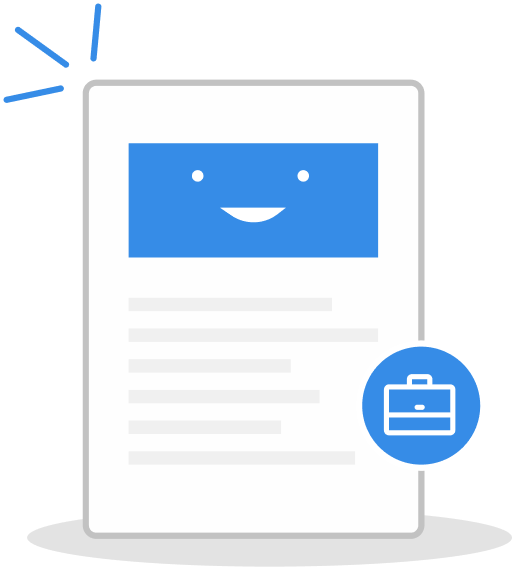
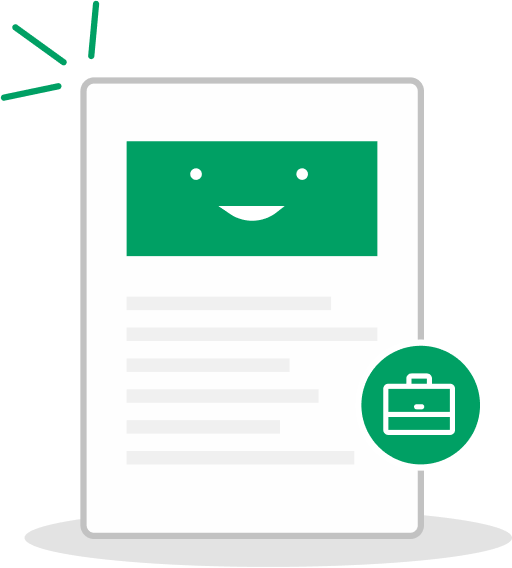
(image-adjustments)

diff --git a/src/app/auth/signup/signup.component.html b/src/app/auth/signup/signup.component.html
@@ -60,9 +60,9 @@
     </div>
 
     <div class="col-12 col-md-6 bg-form">
-      <div class="card py-5 pt-2" [@animate]="{value:'*', params:{ x:'50px', delay:'200ms' }}">
+      <div class="card py-5 pt-2 " [@animate]="{value:'*', params:{ x:'50px', delay:'200ms' }}">
         <!-- Error Message -->
-        <form class="" (submit)="register($event)" [formGroup]="registerForm" *ngIf="!isResent">
+        <form class="px-lg-4" (submit)="register($event)" [formGroup]="registerForm" *ngIf="!isResent">
           <div class="form-group text-start">
             <h4 class="main-title m-0">Create Account</h4>
           </div>

diff --git a/src/app/shared/components/loading/loading.component.html b/src/app/shared/components/loading/loading.component.html
@@ -5,9 +5,9 @@
         <div class="col-12 col-md-12 loading-animation">
           <div class="mb-2 text-center">
 
-            <img src="assets/images/record-loading.gif" class="img-fluid lens-loader" />
+            <img src="assets/images/loading-hemp.gif" class="img-fluid lens-loader mb-3" />
 
-            <h2 class="color-blue-dark mt-3 loading-text">LOA<span class="text-primary-blue">DING</span></h2>
+            <h2 class="color-blue-dark mt-5 loading-text">LOA<span class="text-primary-blue">DING</span></h2>
           </div>
         </div>
       </div>

diff --git a/src/app/shared/components/record-loading/record-loading.component.html b/src/app/shared/components/record-loading/record-loading.component.html
@@ -5,9 +5,9 @@
         <div class="col-12 col-md-12 loading-animation">
           <div class="mb-2 text-center">
 
-            <img src="assets/images/record-loading.gif" class="img-fluid lens-loader" />
+            <img src="assets/images/loading-hemp.gif" class="img-fluid lens-loader mb-3" />
 
-            <h2 class="color-blue-dark mt-3 loading-text">LOA<span class="text-primary-blue">DING</span></h2>
+            <h2 class="color-blue-dark mt-5 loading-text">LOA<span class="text-primary-blue">DING</span></h2>
           </div>
         </div>
       </div>

diff --git a/src/app/jobs/job-card-list-view/job-card-list-view.component.scss b/src/app/jobs/job-card-list-view/job-card-list-view.component.scss
@@ -1,5 +1,9 @@
 @import "src/assets/styles/colors";
 
+.text-capitalized{
+	text-transform: capitalize !important;
+}
+
 .img-banner{
 	width: 300px;
 	height: 180px;
@@ -21,13 +25,14 @@
 	font-weight: 500;
 	font-size: 18px;
 	line-height: 24px;
-	/* or 189% */
-
-	display: flex;
-	align-items: center;
 	font-feature-settings: 'ss04' on, 'ss03' on, 'ss02' on;
 	margin-bottom: 5px;
 	color: #222222;
+	text-transform: lowercase;
+
+	&:first-line{
+		text-transform: capitalize !important;
+	}
 }
 
 .title-company{

diff --git a/src/app/company/company-details-form/company-details-form.component.scss b/src/app/company/company-details-form/company-details-form.component.scss
@@ -338,7 +338,7 @@ label{
 .bg-gray{
 	background-size: cover !important;
 	background-position: center !important;
-	background: linear-gradient(0deg, rgba(0, 0, 0, 0.2), rgba(0, 0, 0, 0.2)) !important;
+	background: rgba(#0F4F34, 0.3);//linear-gradient(0deg, rgba(0, 0, 0, 0.2), rgba(0, 0, 0, 0.2)) !important;
 	border-radius: 7px;
 	padding: 20px;
 	background-repeat: no-repeat;

diff --git a/src/app/views/home/pages/job-post-details-apply/steps/interview-questions/components/interview-notification/interview-notification.component.scss b/src/app/views/home/pages/job-post-details-apply/steps/interview-questions/components/interview-notification/interview-notification.component.scss
@@ -54,18 +54,18 @@
 }
 
 .btn-save{
-	background: #BDF248;
+	background: #0C8542;
 	border-radius: 10px;
 	font-style: normal;
 	font-weight: 500;
 	font-size: 14px;
 	line-height: 17px;
 	width: 150px;
-	color: #1D2549;
+	color: #fff;
 	padding: 9px 35px !important;
 
 	&:hover{
-		border: 1px solid #1D2549;
+		border: 1px solid #0C8542;
 		background: rgba(#BDF248, 0.8);
 	}
 }

diff --git a/src/app/jobs/job-card/job-card.component.scss b/src/app/jobs/job-card/job-card.component.scss
@@ -22,13 +22,14 @@
 	font-weight: 500;
 	font-size: 18px;
 	line-height: 24px;
-	/* or 189% */
-
-	display: flex;
-	align-items: center;
 	font-feature-settings: 'ss04' on, 'ss03' on, 'ss02' on;
 	margin-bottom: 5px;
 	color: #222222;
+	text-transform: lowercase;
+
+	&:first-line{
+		text-transform: capitalize !important;
+	}
 }
 
 .title-company{

diff --git a/src/app/public/components/explore-users/explore-users.component.scss b/src/app/public/components/explore-users/explore-users.component.scss
@@ -32,7 +32,7 @@
 
 .btn-upload{
 	background: #FFFFFF;
-	color: #1666BA !important;
+	color: #004D26 !important;
 	border-radius: 25px !important;
 	color: white;
 	padding: 10px 30px
@@ -40,7 +40,7 @@
 
 
 .btn-register{
-	background: #1666BA;
+	background: #004D26;
 	border-radius: 25px !important;
 	color: white;
 	padding: 10px 30px

diff --git a/src/app/jobs/job-card-list-view/job-card-list-view.component.html b/src/app/jobs/job-card-list-view/job-card-list-view.component.html
@@ -15,7 +15,7 @@
 				</div>
 
 				<div style="margin-top: -6px">
-					<h5 class="title-job-title">{{data?.jobTitle}}</h5>
+					<h5 class="title-job-title text-capitalized">{{data?.jobTitle}}</h5>
 					<p class="title-company">{{data?.companyName}}</p>
 				</div>
 

diff --git a/src/app/application/application-process/steps/interview-questions/components/record-interview/record-interview.component.scss b/src/app/application/application-process/steps/interview-questions/components/record-interview/record-interview.component.scss
@@ -254,7 +254,7 @@
 }
 
 .bg-applicant{
-	background: $color-global-sidebar-employer-user-menu;
+	background: #004D26;
 	/* shawos */
 
 	box-shadow: 0px 10px 19px rgba(0, 0, 0, 0.06);

diff --git a/src/app/views/home/pages/job-post-details-apply/steps/interview-questions/components/record-interview/record-interview.component.scss b/src/app/views/home/pages/job-post-details-apply/steps/interview-questions/components/record-interview/record-interview.component.scss
@@ -243,7 +243,7 @@
 }
 
 .bg-applicant{
-	background: $color-global-sidebar-employer-user-menu;
+	background: #004D26;
 	/* shawos */
 
 	box-shadow: 0px 10px 19px rgba(0, 0, 0, 0.06);

diff --git a/src/app/jobs/job-posts-details/job-posts-details.component.scss b/src/app/jobs/job-posts-details/job-posts-details.component.scss
@@ -192,9 +192,9 @@
 }
 
 .btn-apply-now{
-	background: #BEF249;
+	background: #0C8542;
 	border-radius: 5px;
-	color: #1D2549;
+	color: #fff;
 	padding: 9px;
 	font-weight: 500;
 }
